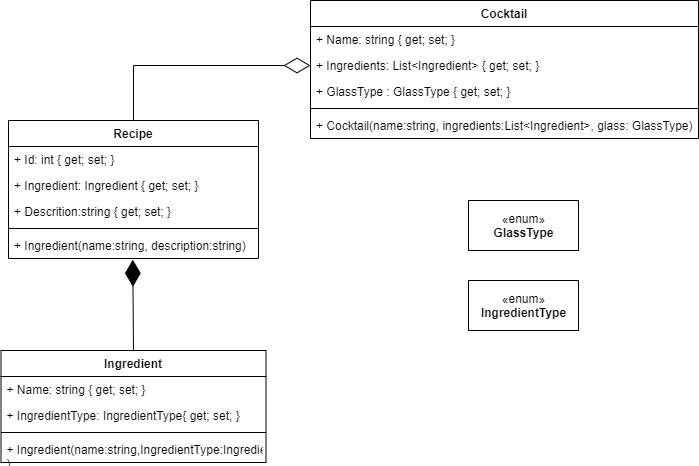
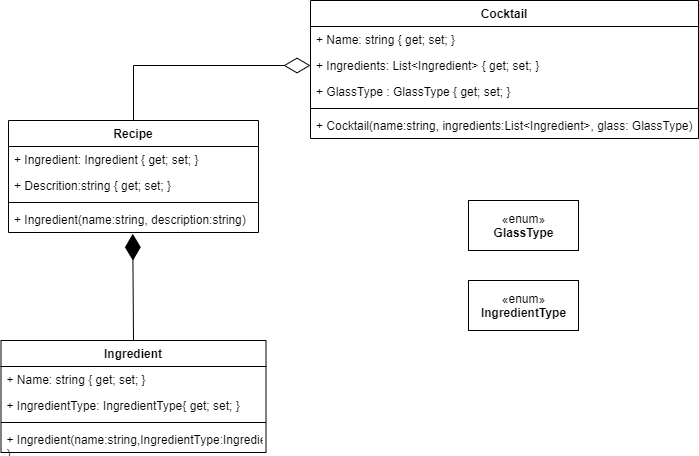
Commit

diff --git a/Cocktails_/Program.cs b/Cocktails_/Program.cs
@@ -18,10 +18,6 @@ namespace Cocktails
         static CocktailController coCon = new CocktailController();
         static IngredientController inCon = new IngredientController();
 
-        // * Package Manager Console
-        // EntityFrameworkCore\Add-Migration "InitialCreate"
-        // EntityFrameworkCore\Update-Database
-
         static void Main(string[] args)
         {
             if (coCon.GetAll().Count() == 0)
@@ -35,16 +31,6 @@ namespace Cocktails
             {
                 showMenu = MainMenu();
             }
-
-
-            //controller.CreateCocktail(new Cocktail { Name = "Dummy2", Glass = GlassType.Collins, Ingredients = new List<Ingredient>() { new LiquidIngredient { Name = "SomeLiquid2", MlAmount = 100 } } });
-
-
-            //foreach (var c in controller.GetAllCocktails())
-            //{
-            //    Console.WriteLine(c.Name);
-            //    Console.WriteLine(c.Glass);
-            //}
         }
 
         private static bool MainMenu()
@@ -179,8 +165,6 @@ namespace Cocktails
                 }
             }
         }
-
-
         private static void UpdateDrink()
         {
             Console.Clear();
@@ -218,7 +202,7 @@ namespace Cocktails
             Console.WriteLine(" 4. Highball");
             Console.WriteLine(" 5. Poco Grande");
             Console.WriteLine(" 6. Flute");
-            GlassType type = GetGlassType(Console.ReadKey().Key);
+            GlassType type = GetGlassType((int)Console.ReadKey().Key);
             cocktail.GlassType = type;
         }
 

diff --git a/Cocktails_/Controllers/IController.cs b/Cocktails_/Controllers/IController.cs
@@ -10,7 +10,7 @@ namespace Cocktails.Controllers
         /// <param name="object">object refrence</param>
         public void Create(T @object);
         /// <summary>
-        /// Used to update object in table
+        /// Used to create object in table
         /// </summary>
         /// <param name="object">object refrence</param>
         public void Update(T @object);

diff --git a/Cocktails_/Models/Entities/IngredientDescription.cs b/Cocktails_/Models/Entities/IngredientDescription.cs
@@ -1,5 +1,4 @@
-using System;
-using System.ComponentModel.DataAnnotations;
+using System.ComponentModel.DataAnnotations;
 using System.ComponentModel.DataAnnotations.Schema;
 
 namespace Cocktails.Models.Entities
